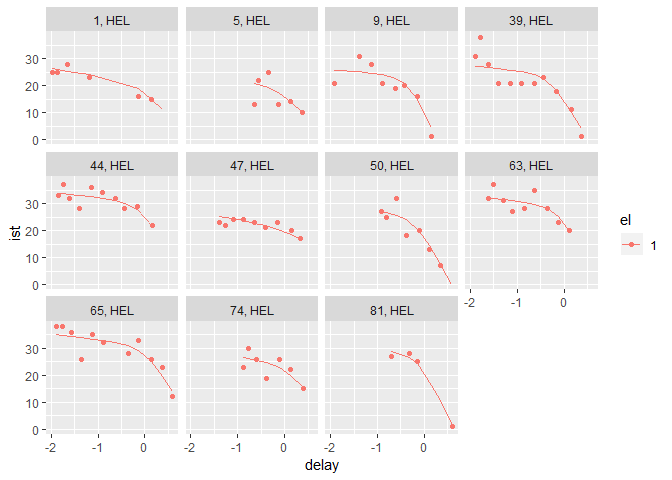
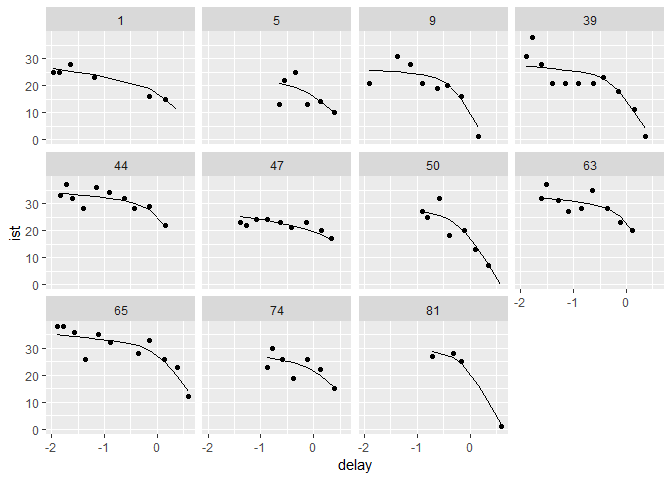
removing useless legend

diff --git a/README.md b/README.md
@@ -216,31 +216,4 @@ random changepoint model. This is done with the `rcpme` function.
 
     pred <- unlist(IndPred(esti))
 
-    ##    id ist      delay el     pred
-    ## 1   1  25 -1.9700001  1 26.19273
-    ## 2   1  25 -1.8621301  1 25.91255
-    ## 3   1  28 -1.6521401  1 25.36133
-    ## 4   1  23 -1.1809501  1 24.07610
-    ## 5   1  16 -0.1474333  1 19.08581
-    ## 6   1  15  0.1474333  1 14.83805
-    ## 7   1  NA  0.3637235  1 11.11656
-    ## 8   2  24 -2.0594318  1 24.06854
-    ## 9   2  21 -1.9567618  1 23.69300
-    ## 10  2  25 -1.7566218  1 22.96102
-    ## 11  2  21 -1.5406018  1 22.17111
-    ## 12  2  18 -1.2722918  1 21.19034
-    ## 13  2  20 -1.0423202  1 20.35022
-    ## 14  2  17 -0.7674400  1 19.34734
-    ## 15  2  21 -0.5683983  1 18.62312
-    ## 16  2  NA -0.2684463  1 17.54136
-    ## 17  2  17  0.2684463  1 15.67947
-    ## 18  3  31 -1.1492129  1 32.58399
-    ## 19  3  34 -1.0522929  1 32.38923
-    ## 20  3  37 -0.8507829  1 31.87378
-    ## 21  3  31 -0.6405229  1 31.03033
-    ## 22  3  27 -0.3796029  1 28.79771
-    ## 23  3  22 -0.1400411  1 23.87135
-    ## 24  3  14  0.1400411  1 14.49509
-    ## 25  4  25 -1.1649555  1 26.27072
-
 ![](Readme_files/figure-markdown_strict/unnamed-chunk-7-1.png)
